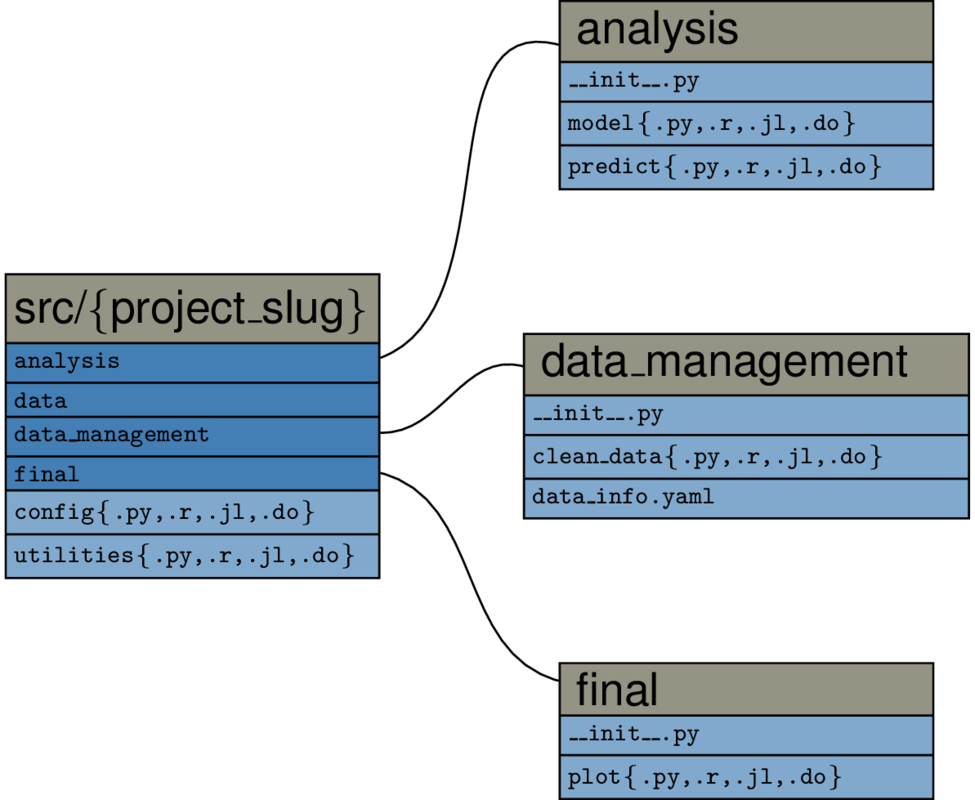
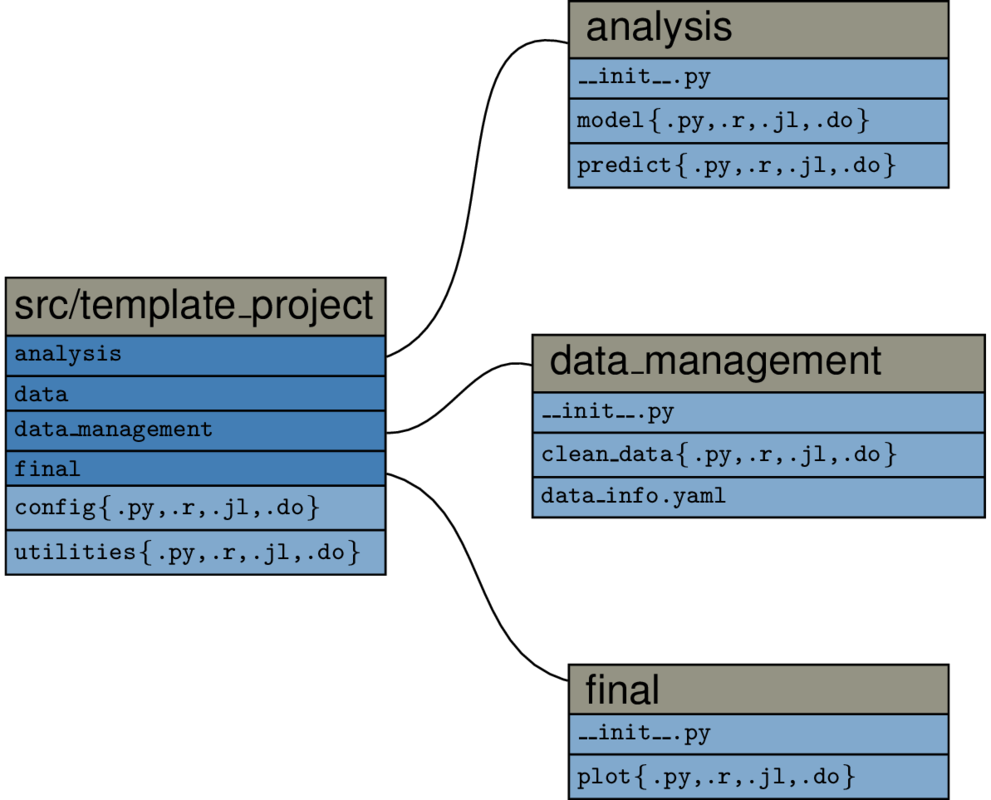
Update task files for docs visualizations

diff --git a/docs/scripts/latex/root_bld_src.tex b/docs/scripts/latex/root_bld_src.tex
@@ -30,15 +30,15 @@
             ]
             {
                 \nodepart{one}
-                \begin{small}
+                \begin{footnotesize}
                     project root
-                \end{small}
+                \end{footnotesize}
                 \nodepart{two}
                 \texttt{bld}
                 \nodepart{three}
-                \texttt{\{project\_slug\}.pdf}
+                \texttt{template\_project.pdf}
                 \nodepart{four}
-                \texttt{\{project\_slug\}\_pres.pdf}
+                \texttt{template\_project\_pres.pdf}
                 \nodepart{five}
                 \texttt{src}
                 \nodepart{six}
@@ -62,9 +62,9 @@
             ]
             {
                 \nodepart{one}
-                \begin{small}
+                \begin{footnotesize}
                     bld/python
-                \end{small}
+                \end{footnotesize}
                 \nodepart{two}
                 \texttt{data}
                 \nodepart{three}
@@ -97,9 +97,9 @@
             ]
             {
                 \nodepart{one}
-                \begin{small}
-                    src/\{project\_slug\}
-                \end{small}
+                \begin{footnotesize}
+                    src/template\_project
+                \end{footnotesize}
                 \nodepart{two}
                 \texttt{analysis}
                 \nodepart{three}

diff --git a/docs/scripts/latex/src.tex b/docs/scripts/latex/src.tex
@@ -34,9 +34,9 @@
         ]
         {
             \nodepart{one}
-                \begin{small}
-                    src/\{project\_slug\}
-                \end{small}
+                \begin{footnotesize}
+                    src/template\_project
+                \end{footnotesize}
             \nodepart{two}
                 \texttt{analysis}
             \nodepart{three}
@@ -66,9 +66,9 @@
         ]
         {
             \nodepart{one}
-                \begin{small}
+                \begin{footnotesize}
                     data\_management
-                \end{small}
+                \end{footnotesize}
             \nodepart{two}
                 \texttt{\_\_init\_\_.py}
             \nodepart{three}
@@ -92,9 +92,9 @@
         ]
         {
             \nodepart{one}
-                \begin{small}
+                \begin{footnotesize}
                     analysis
-                \end{small}
+                \end{footnotesize}
             \nodepart{two}
                 \texttt{\_\_init\_\_.py}
             \nodepart{three}
@@ -117,9 +117,9 @@
         ]
         {
             \nodepart{one}
-                \begin{small}
+                \begin{footnotesize}
                     final
-                \end{small}
+                \end{footnotesize}
             \nodepart{two}
                 \texttt{\_\_init\_\_.py}
             \nodepart{three}

diff --git a/docs/scripts/task_create_visualization_for_docs.py b/docs/scripts/task_create_visualization_for_docs.py
@@ -6,7 +6,7 @@ from pathlib import Path
 import plotly.graph_objects as go
 import pytask
 
-DOCS = Path(__file__).parent.parent.parent.resolve()  # root/docs
+DOCS = Path(__file__).parent.parent.resolve()  # root/docs
 DOCS_SCRIPTS = DOCS / "scripts"
 FIGURES = DOCS / "source" / "figures" / "generated"
 

diff --git a/docs/source/development/how-to-contribute.md b/docs/source/development/how-to-contribute.md
@@ -23,19 +23,39 @@ for some immediate and clearly defined tasks.
 
    ```console
    $ conda env create -f environment.yml
-   $ conda activate cp
+   $ conda activate template_project
    ```
 
-1. Implement the fix or new feature. If you work on the *inner project* please read
-   about our recommend workflow in the next section. There we also explain what the
-   *inner project* is.
+1. In case you work on the documentation, you also have to install and activate the
+   documentation environment:
+
+```console
+$ conda env create -f docs/rtd_environment.yml
+$ conda activate ept-docs
+```
+
+You can build the documentation using
+
+```console
+$ cd docs
+$ make html
+```
+
+The newly created documentation can be opened using (replace "browser" with your browser
+of choice)
+
+```console
+$ browser docs/build/html/index.html
+```
+
+1. Implement the fix or new feature.
 
 1. We validate contributions in three ways. First, we have a test suite to check the
-   implementation the templates. Second, we correct for stylistic errors in code and
-   documentation using linters. Third, we test whether the documentation builds
+   implementation of the template project. Second, we correct for stylistic errors in
+   code and documentation using linters. Third, we test whether the documentation builds
    successfully.
 
-   You can run all checks with `pytest` by running
+   You can run the checks on the template project with `pytest` by running
 
    ```console
    $ pytest
@@ -43,11 +63,12 @@ for some immediate and clearly defined tasks.
 
    This will run the complete test suite.
 
-   Correct any errors displayed in the terminal.
+   You should correct any errors displayed in the terminal.
 
    To correct stylistic errors, you can also install the linters as a pre-commit with
 
    ```console
+   $ conda activate template_project
    $ pre-commit install
    ```
 
@@ -71,23 +92,3 @@ for some immediate and clearly defined tasks.
    your changes.
 
 1. The final PR will be merged by one of the main contributors.
-
-## Working on the inner project
-
-We differentiate between the *inner project*, which is the template project located in
-template_project, and the *outer project*, which is everything else.
-
-To work on the inner project we recommend the following workflow:
-
-1. Use `cookiecutter econ-project-templates` locally to create an template project
-
-1. Create a conda environment in this local template project
-
-1. Make sure that pytask builds the template project and that the tests run
-
-1. Apply changes to the template project
-
-1. Repeat step 3
-
-1. Transfer changes to the official repository by changing example names to
-   template_project etc.

diff --git a/docs/source/getting_started/preparing_your_system.md b/docs/source/getting_started/preparing_your_system.md
@@ -3,8 +3,9 @@
 1. Make sure you have the following programs installed and that these can be found on
    your path. This template requires
 
-- [Miniconda](https://docs.conda.io/en/latest/miniconda.html) or Anaconda. Windows
-  users: please consult {ref}`windows_user`
+- [Miniconda](https://docs.conda.io/en/latest/miniconda.html) or
+  [Micromamba](https://mamba.readthedocs.io/en/latest/user_guide/micromamba.html) or
+  Anaconda. Windows users: please consult {ref}`windows_user`
 
   ```{note} This template is tested with python 3.9 and higher and conda version 22.9
   ```
@@ -84,8 +85,8 @@
   fatal: not a git repository (or any of the parent directories): .git
   ```
 
-  If a Git repository is present, delete it or go to another directory before starting
-  cookiecutter below.
+  If a Git repository is present, delete it or go to another directory before proceeding
+  further.
 
   To start and exit pdflatex.
 
@@ -120,24 +121,12 @@
    fatal: not a git repository (or any of the parent directories): .git
    ```
 
-### Installing cookiecutter
+### Installing the template
 
-4. The template uses [cookiecutter](https://cookiecutter.readthedocs.io/en/latest/) to
-   enable personalized installations. Before you start, install cookiecutter on your
-   system.
+4. To install the template repository, first go to the
+   [econ-project-templates](https://github.com/OpenSourceEconomics/econ-project-templates)
+   repo.
 
-   ```{warning} If you are using conda environments, make sure that you are in the base
-   environment before installing cookiecutter (`conda deactivate`, possibly multiple
-   times). Else you may get a nested environment later on, this can be annoying.
-   ```
-
-   ```console
-   $ pip install cookiecutter
-   ```
-
-   All additional dependencies will be installed into a newly created conda environment
-   upon project creation.
-
-   ```{warning} If you do not opt for the conda environment later on, you need to take
-   care of these dependencies by yourself.
-   ```
+   Now follow the official
+   [instructions](https://docs.github.com/en/repositories/creating-and-managing-repositories/creating-a-repository-from-a-template#creating-a-repository-from-a-template)
+   on how to create a new repository from a template repository.

diff --git a/docs/source/index.md b/docs/source/index.md
@@ -27,7 +27,7 @@ This code base aims to provide two stepping stones to assist you in achieving th
 
 The first should lure you in quickly. The second should convince you to stick to the
 tools in the long run – unless you have fought with large research projects before, at
-this point you nay think that all of this is overkill and far more difficult than
+this point you may think that all of this is overkill and far more difficult than
 necessary. It is not. _\[although I am always_
 [happy to hear](https://www.wiwi.uni-bonn.de/gaudecker/) _about easier alternatives\]_
 
@@ -40,13 +40,12 @@ tools, though.
 ## Navigating this Documentation
 
 When starting freshly, go to the next section for finding out how to prepare your
-machine and what is behind all the options in the
-[cookiecutter](https://cookiecutter.readthedocs.io/en/stable) dialogue that we set up.
-The {ref}`background` section explains many of the design choices; feel free to skip if
-you worked with the templates before. {ref}`guides_explanations` provides some tips and
-tricks and points you to some useful features of helper programmes that come with the
-templates. The documentation follows the Python version of the running example; see
-{ref}`programming_languages` for additional options.
+machine and how to get started with the template. The {ref}`background` section explains
+many of the design choices; feel free to skip if you worked with the templates before.
+{ref}`guides_explanations` provides some tips and tricks and points you to some useful
+features of helper programmes that come with the templates. The documentation follows
+the Python version of the running example; see {ref}`programming_languages` for
+additional options.
 
 ```{toctree}
 ---

diff --git a/docs/source/getting_started/index.md b/docs/source/getting_started/index.md
@@ -8,15 +8,16 @@ want to jump to any of the sections in this part of the documentation:
 - In {ref}`preparing_your_system`, we describe what needs to be installed on your
   computer so that you can use the templates.
 - Should you have done that already for a different project, you can directly go to
-  {ref}`cookiecutter_dialogue`, which describes the options you have when moving from
-  the template to your specific research project.
+  {ref}`template_setup`, which describes how to customize the template to your specific
+  research project.
 - In case a project has been set up by you or a collaborator and you want to use it on a
   different machine as well, you will find the explanations on how to do so in
   {ref}`second_machine`.
 
-Once you are set up in this fashion, you may want to read up on the background of the
-{ref}`background`. In case you know those already, have a look in
-{ref}`guides_explanations` for guides on starting new projects or porting existing ones.
+Once you are set up in this fashion, you may want to read up on some additional
+information in the {ref}`background` section. In case you know those already, have a
+look in {ref}`guides_explanations` for guides on starting new projects or porting
+existing ones.
 
 (preparing_your_system)=
 
@@ -25,11 +26,11 @@ Once you are set up in this fashion, you may want to read up on the background o
 ```{include} preparing_your_system.md
 ```
 
-(cookiecutter_dialogue)=
+(template_setup)=
 
 ## Customising the template for your needs
 
-```{include} cookiecutter_dialogue.md
+```{include} template_setup.md
 ```
 
 (second_machine)=

diff --git a/docs/source/faq.md b/docs/source/faq.md
@@ -107,32 +107,6 @@ of choice.
 
 1. Press `Return` and then `ctrl+o` (= WriteOut = save) and `Return` once more.
 
-(cookiecutter_trouble)=
-
-### When cookiecutter exits with an error
-
-If cookiecutter fails, you will get a lengthy error message. It is important that you
-work through this and try to understand the error (the language used might seem funny,
-but it is precise...).
-
-Then type:
-
-```bash
-$ code ~/.cookiecutter_replay/econ-project-templates-0.7.1.json
-```
-
-If you are not using VS Code as your editor of choice, adjust the line accordingly.
-
-This command should open your editor and show you a json file containing your answers to
-the previously filled out dialogue. You can fix your faulty settings in this file. If
-you have spaces or special characters in your path, you need to adjust your path.
-
-When done, launch a new shell if necessary and type:
-
-```bash
-$ cookiecutter --replay https://github.com/OpenSourceEconomics/econ-project-templates/archive/v0.7.1.zip
-```
-
 (stata_failure_check_erase_log_file)=
 
 ### Stata failure: FileNotFoundError

diff --git a/docs/source/programming_languages/index.md b/docs/source/programming_languages/index.md
@@ -13,12 +13,10 @@ The base language is Python, which works out-of-the-box. In this section we show
 to use the other languages and explain some language specific caveats.
 
 ```{note}
-- When selecting a language in the cookiecutter {ref}`cookiecutter_dialogue`
-we install all the necessary software needed to use that language for you.
-- The usage of pytask with your chosen language should be illustrated in the
-template project that was downloaded. At the moment the template project is not
-implemented for R, Julia and Stata (but under more or less active development, help
-appreciated!). This is why we clarify the basics here.
+The usage of pytask with your chosen language should be illustrated in the template
+project that was downloaded. At the moment the template project is not implemented for
+Julia and Stata (but under more or less active development, help appreciated!). This is
+why we clarify the basics here.
 ```
 
 ```{warning} The use of pytask with Python differs from the other languages. While in

diff --git a/docs/source/getting_started/second_machine.md b/docs/source/getting_started/second_machine.md
@@ -1,8 +1,8 @@
 If you already have the templates running on your computer and hosted on GitHub, it is
 very easy to invite a collaborator or to use a second machine. Importantly you do not
-need to go through the cookiecutter dialogue etc.
+need to create the template repository again.
 
-On the second machine prepare the system and open a terminal on Max/Linux or the
+On the second machine prepare the system and open a terminal on Mac/Linux or the
 Anaconda prompt on Windows. Then type
 
 ```console

diff --git a/docs/source/guides_explanations/starting_from_scratch.md b/docs/source/guides_explanations/starting_from_scratch.md
@@ -4,7 +4,7 @@ head around all of the things that are going on. So write one bit of code at a t
 understand what is happening and why, and move on.
 
 Assuming you have installed the template for the language(s) of your choice as described
-in {ref}`cookiecutter_dialogue`, my recommendation would be as follows.
+in {ref}`template_setup`, my recommendation would be as follows.
 
 1. Leave the examples in place.
 1. Now add your own data and code bit by bit. **Append** the `task_xxx` files as

diff --git a/docs/source/getting_started/template_setup.md b/docs/source/getting_started/template_setup.md
@@ -1,0 +1,12 @@
+```{warning} To be written
+
+Explain what to delete and what to change:
+
+
+Delete:
+
+- `TEMPLATE_GROUPS` in config.py
+- `docs` folder
+- `readthedocs.yml` file
+
+```
